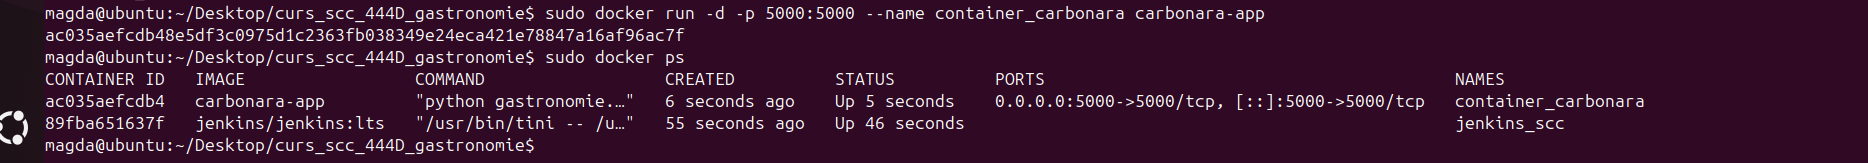
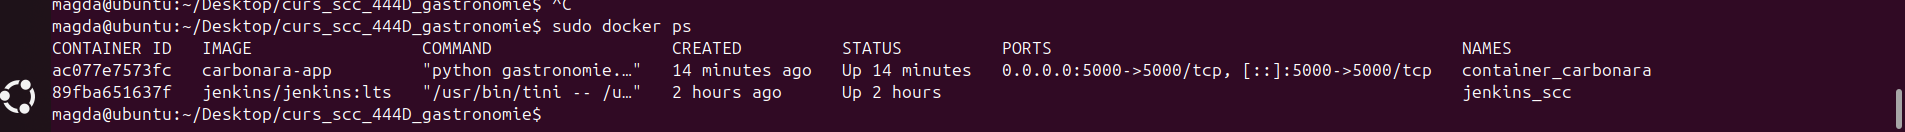
Finalizare Proiect: Aplicatie Carbonara completa cu documentatie si teste

Changed region(s): [[0.0, 0.303, 0.9004, 0.9394], [0.0, 0.0, 0.6831, 0.2727], [0.9936, 0.6667, 1.0, 0.9697]]

diff --git a/test_gastronomie.py b/test_gastronomie.py
@@ -1,15 +1,32 @@
 import unittest
+from gastronomie import app
 from app.lib.biblioteca_gastronomie import text_provenienta, text_ingrediente, text_preparare
 
 class TestGastronomie(unittest.TestCase):
-    def test_provenienta(self):
+    
+    # --- TESTELE TALE (Logica) ---
+    def test_provenienta_text(self):
         self.assertIn("Italia", text_provenienta())
     
-    def test_ingrediente(self):
+    def test_ingrediente_text(self):
         self.assertIn("Guanciale", text_ingrediente())
 
-    def test_preparare(self):
-        self.assertIn("emulsia", text_preparare())
+    # --- TESTELE "STIL COLEG" (Rute Web) ---
+    def setUp(self):
+        self.client = app.test_client()
+
+    def test_home_route(self):
+        response = self.client.get('/gastronomie')
+        self.assertEqual(response.status_code, 200)
+        self.assertIn("Carbonara", response.get_data(as_text=True))
+
+    def test_provenienta_route(self):
+        response = self.client.get('/provenienta')
+        self.assertEqual(response.status_code, 200)
+
+    def test_ingrediente_route(self):
+        response = self.client.get('/ingrediente')
+        self.assertEqual(response.status_code, 200)
 
 if __name__ == '__main__':
     unittest.main()

diff --git a/README.md b/README.md
@@ -1,13 +1,58 @@
-# Proiect SCC - Gastronomie (Paste Carbonara)
-**Dezvoltator:** Nastase Magda
-**Grupa:** 444D
+# 🍝 Proiect Gastronomie: Paste Carbonara
 
-### Stadiu proiect:
-- [x] Implementare cod Python (Flask + Biblioteca)
-- [x] Creare Dockerfile
-- [ ] Testare Jenkins (urmeaza)
-- [ ] Integrare prin Pull Request (urmeaza)
+**Student:** Năstase Magda  
+**Grupă:** 444D  
 
-### Cum se ruleaza:
-1. `docker build -t carbonara-app .`
-2. `docker run -p 5000:5000 carbonara-app`
+Acest proiect reprezintă o aplicație web dezvoltată în **Flask** care prezintă istoria, ingredientele și modul de preparare al rețetei autentice de Carbonara. Aplicația este complet containerizată și pregătită pentru fluxuri de CI/CD.
+
+---
+
+## 📂 Structură Proiect
+
+```text
+.
+├── app/
+│   └── lib/
+│       ├── __init__.py
+│       └── biblioteca_gastronomie.py  # Logica și textele (100+ cuvinte)
+├── screenshots/                      # Capturi de ecran aplicație & Docker
+├── Dockerfile                        # Configurare imagine Docker
+├── docker-compose.yml                # Configurare Docker Compose
+├── Jenkinsfile                       # Pipeline CI/CD Jenkins
+├── gastronomie.py                    # Serverul principal Flask
+├── requirements.txt                  # Dependențe (Flask)
+├── test_gastronomie.py               # Teste unitare și integrare
+└── README.md                         # Documentația proiectului
+⚙️ Stadiul Implementării
+Aplicația Flask: Finalizată. Include rute dinamice pentru /gastronomie, /provenienta, /ingrediente și /preparare.
+
+Bibliotecă Text: Implementată separat în app/lib pentru a asigura modularitatea codului.
+
+Teste Unitare: Implementate în test_gastronomie.py. Verifică atât conținutul textelor, cât și răspunsul serverului (Status 200 OK).
+
+Containerizare: Imagine Docker bazată pe python:3.9-slim, testată și funcțională.
+
+CI/CD: Fișier Jenkinsfile configurat pentru automatizarea etapelor de Test, Build și Deploy.
+
+🚀 Ghid de Utilizare (Docker)
+Pentru a rula proiectul local folosind Docker, urmați pașii:
+
+Opțiunea 1: Docker Manual
+Bash
+# Construire imagine
+docker build -t carbonara-app .
+
+# Lansare container
+docker run -d -p 5000:5000 --name container_carbonara carbonara-app
+Opțiunea 2: Docker Compose (Recomandat)
+Bash
+docker-compose up -d --build
+Notă: Aplicația poate fi accesată la adresa: http://localhost:5000/gastronomie
+
+✅ Testare Automată
+Pentru a rula suita de teste direct în mediul de execuție Docker, folosiți comanda:
+
+Bash
+docker exec -it container_carbonara python3 test_gastronomie.py
+📸 Screenshots
+Toate capturile de ecran care atestă funcționalitatea aplicației, trecerea testelor și statusul containerelor Docker se regăsesc în folderul /screenshots.